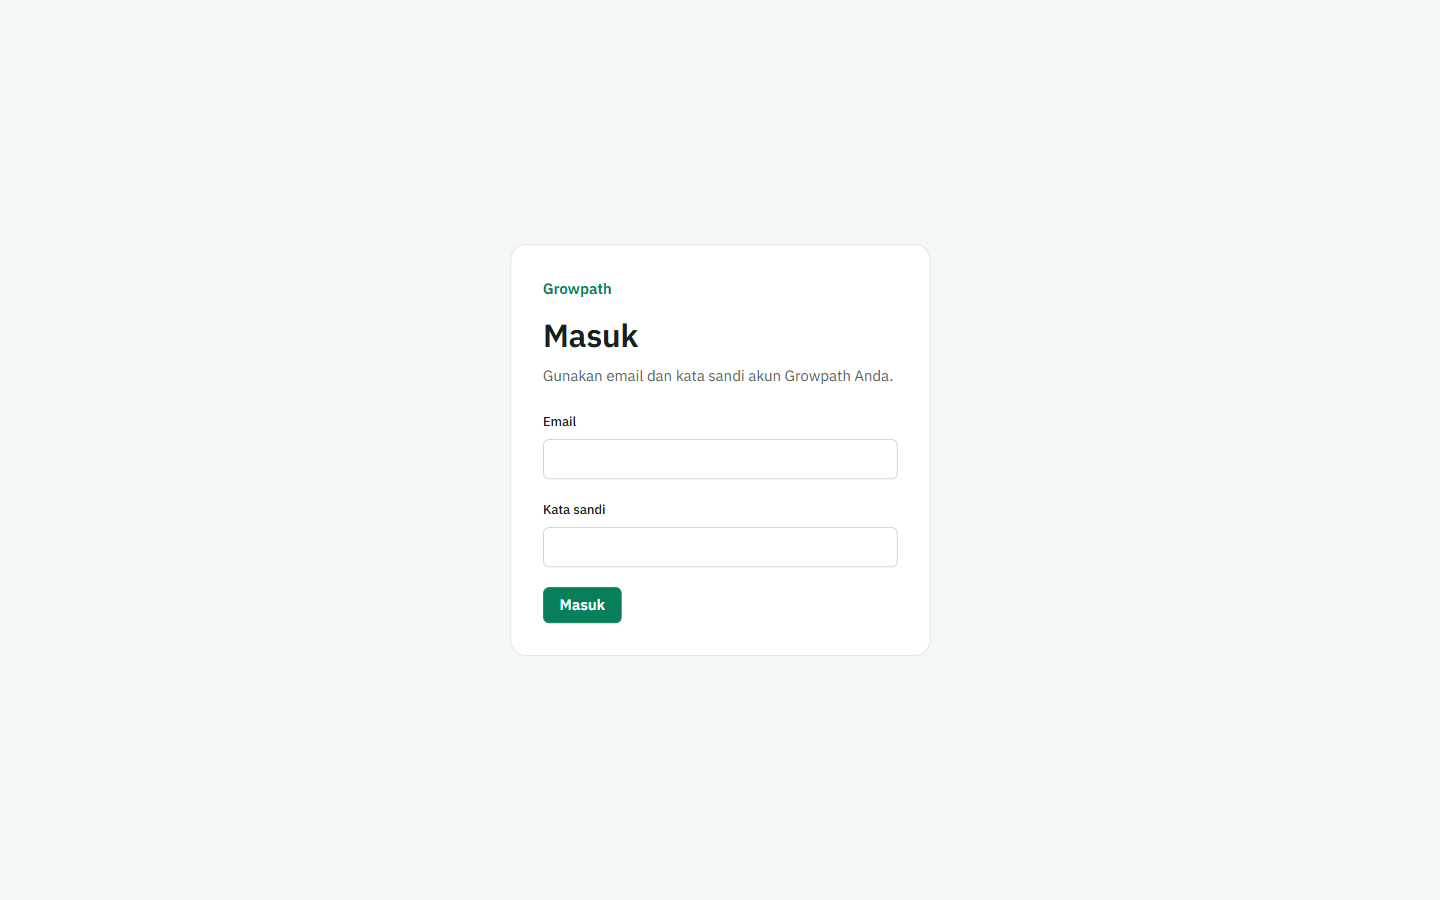
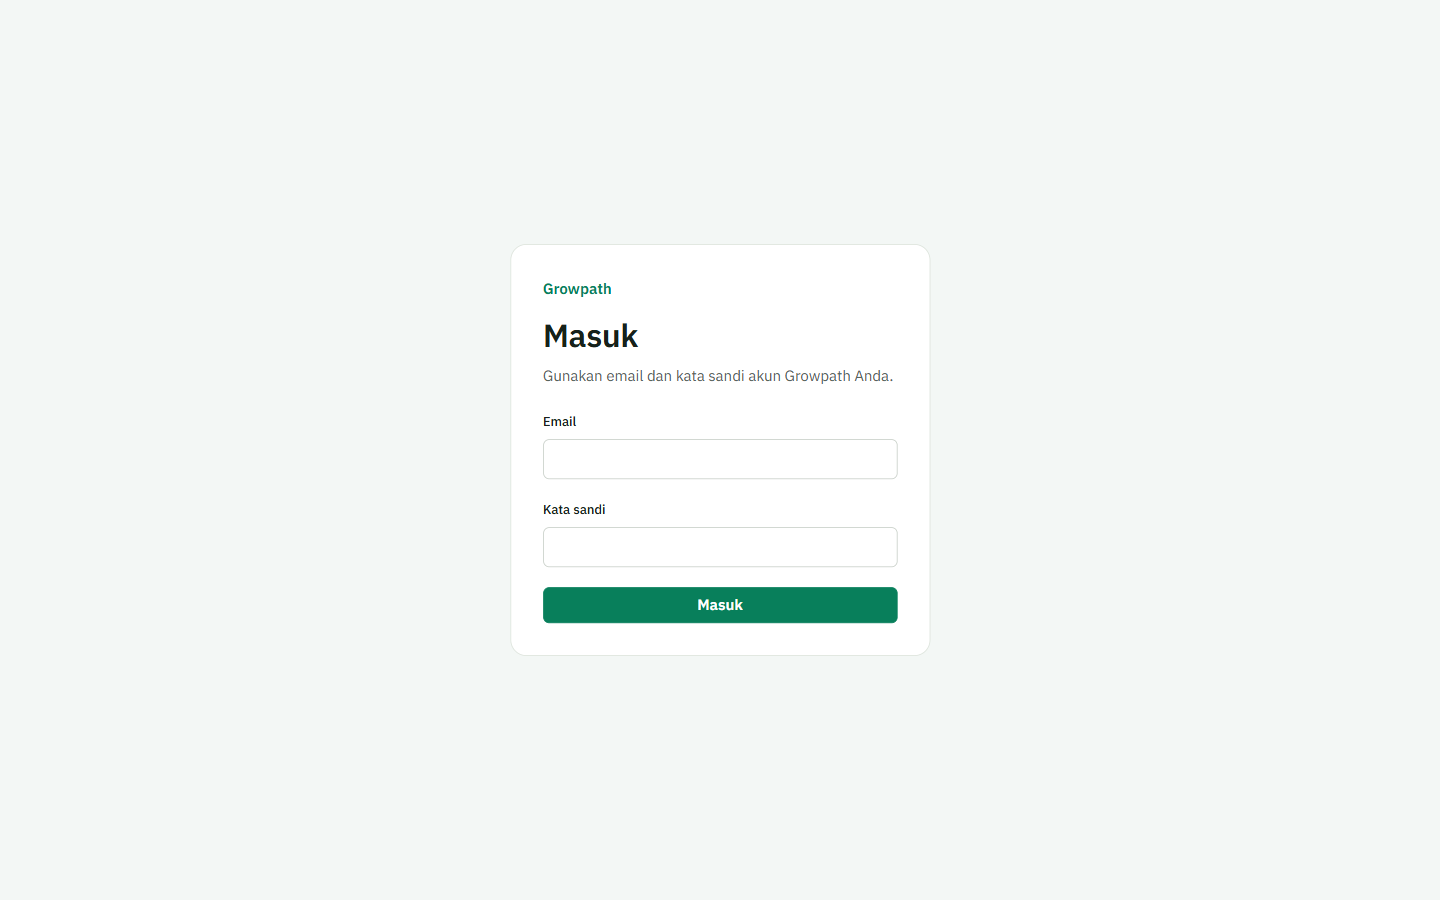
[Source][Bagas] Tengahkan form login dan lebarkan tombol utama
Kartu login kini di tengah vertikal pada semua lebar, dan tombol Masuk memakai lebar penuh form. Screenshot bukti 1440 dan 390 diperbarui.

Changed region(s): [[0.375, 0.6533, 0.625, 0.7156]]

diff --git a/08_Source/frontend/app/login/page.tsx b/08_Source/frontend/app/login/page.tsx
@@ -13,7 +13,7 @@ export default async function LoginPage() {
   if (session) redirect("/app");
 
   return (
-    <main className="flex min-h-dvh items-start justify-center px-5 py-10 sm:items-center sm:px-6">
+    <main className="flex min-h-dvh items-center justify-center px-5 py-10 sm:px-6">
       <div className="sheet w-full max-w-[420px] p-6 sm:p-8">
         <p className="brand">Growpath</p>
         <h1 className="h1 mt-4">Masuk</h1>

diff --git a/08_Source/frontend/app/globals.css b/08_Source/frontend/app/globals.css
@@ -117,9 +117,9 @@
     font: inherit;
     font-weight: 600;
     justify-content: center;
-    justify-self: start;
     min-height: 36px;
     padding: 0 var(--space-4);
+    width: 100%;
   }
 
   .button-primary:hover {
@@ -158,10 +158,6 @@
     .button-secondary {
       min-height: 44px;
       width: 100%;
-    }
-
-    .button-primary {
-      justify-self: stretch;
     }
   }
 }
